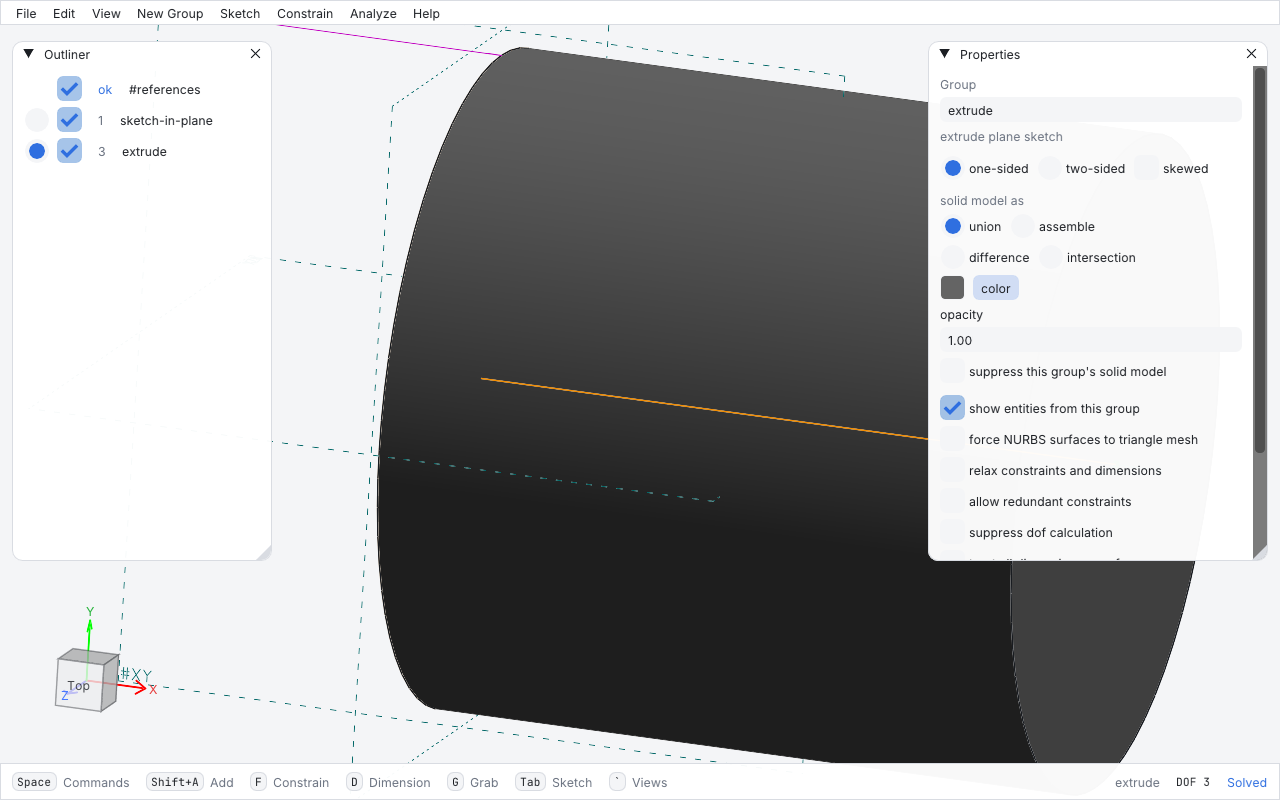
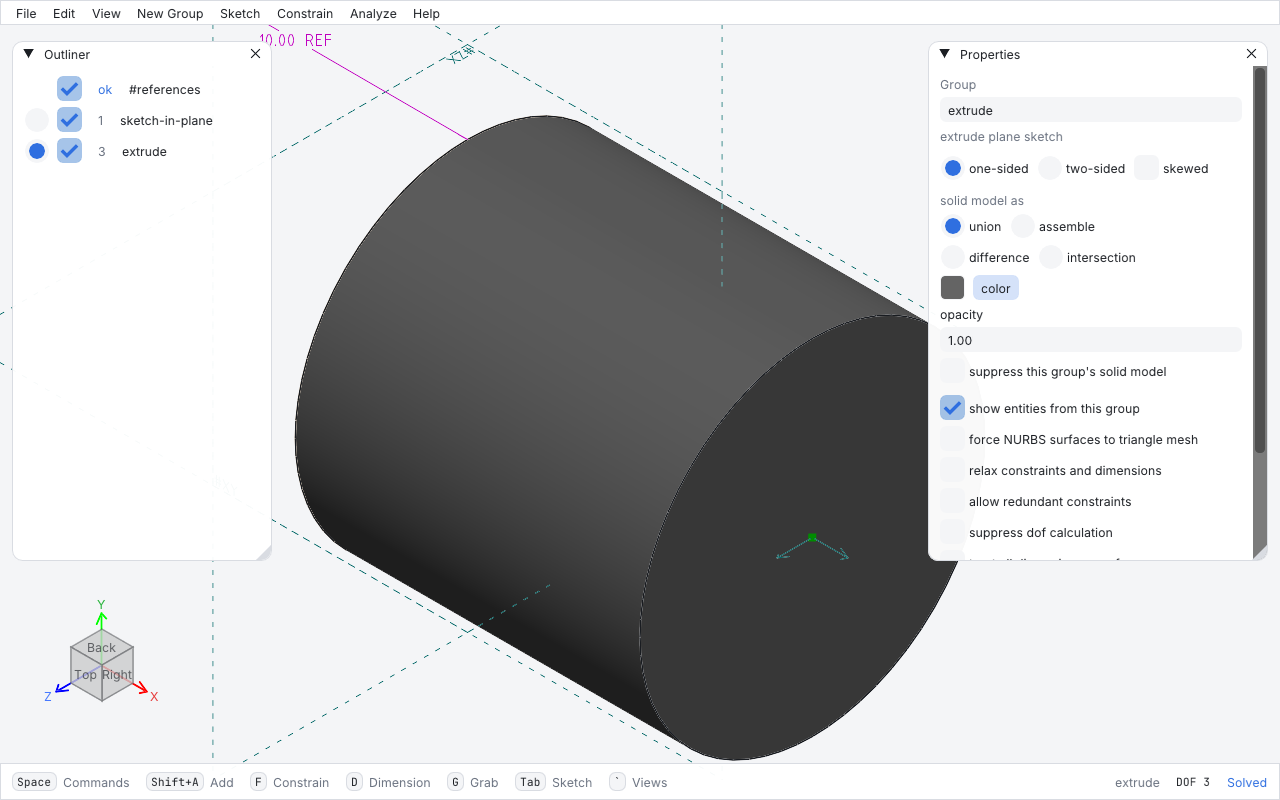
NG: the reference axes start at the view cube's -X -Y -Z corner.
As in Onshape and Fusion 360, the cube's corner is the axes' origin: they
run along its three edges from there and past the far corners, the corner
following the view as it turns. (Looking from +X+Y+Z, that corner sits
right behind the cube's centre.)

diff --git a/src/ui/viewcube.cpp b/src/ui/viewcube.cpp
@@ -13,11 +13,12 @@
 namespace SolveSpace {
 namespace Ui {
 
-static const double CubeSize   = 24;  // half the side of a face seen square on
-static const double AxisLength = 62;  // from the cube's centre, past its corners
-static const float  Box        = 150; // the area cube, axes and labels may cover
+static const double CubeSize   = 22;  // half the side of a face seen square on
+// The axes start at the cube's -X -Y -Z corner and run along its edges, past the far corners.
+static const double AxisLength = 2 * CubeSize + 20;
+static const float  Box        = 180; // the area cube, axes and labels may cover
 
-static Point2d gCenter;
+static Point2d gCenter, gAxesOrigin;
 static bool    gPressed = false, gDragging = false;
 static Point2d gPressAt;
 
@@ -27,6 +28,10 @@ Point2d ViewCubeCenter() {
 
 double ViewCubeSize() {
     return CubeSize;
+}
+
+Point2d ViewCubeAxesOrigin() {
+    return gAxesOrigin;
 }
 
 bool ViewCubeTakesMouseAt(double x, double y, bool canvasPressed) {
@@ -85,14 +90,22 @@ std::function<void()> DrawViewCube() {
                  ImGuiWindowFlags_NoInputs | ImGuiWindowFlags_NoFocusOnAppearing |
                  ImGuiWindowFlags_NoBringToFrontOnFocus);
     ImGui::PopStyleVar();
-    Point2d center = Point2d::From(at.x + Box / 2, at.y + Box / 2);
-    if(!center.Equals(gCenter)) {
-        gCenter = center;
-        // The canvas draws the axes from here (pixels from the view centre, y up).
-        SS.GW.referenceAxesAnchor =
-            Point2d::From(center.x - io.DisplaySize.x / 2, io.DisplaySize.y / 2 - center.y);
-        SS.GW.referenceAxesLength = AxisLength;
-        SS.GW.Invalidate(/*clearPersistent=*/true);
+    gCenter = Point2d::From(at.x + Box / 2, at.y + Box / 2);
+    {
+        // The canvas draws the axes from the cube's -X -Y -Z corner, so that corner is the
+        // origin (pixels from the view centre, y up). It moves as the view turns.
+        Vector  corner = Vector::From(-1, -1, -1);
+        Point2d origin = Point2d::From(gCenter.x + CubeSize * corner.Dot(SS.GW.projRight),
+                                       gCenter.y - CubeSize * corner.Dot(SS.GW.projUp));
+        gAxesOrigin    = origin;
+        Point2d anchor =
+            Point2d::From(origin.x - io.DisplaySize.x / 2, io.DisplaySize.y / 2 - origin.y);
+        if(!SS.GW.referenceAxesAnchor || !SS.GW.referenceAxesAnchor->Equals(anchor, 0.01) ||
+           SS.GW.referenceAxesLength != AxisLength) {
+            SS.GW.referenceAxesAnchor = anchor;
+            SS.GW.referenceAxesLength = AxisLength;
+            SS.GW.Invalidate(/*clearPersistent=*/true);
+        }
     }
     // The cube's area, findable by the UI tests as "viewcube" (the window takes no input).
     ImGui::InvisibleButton("##viewcube", ImVec2(Box, Box));
@@ -157,7 +170,8 @@ std::function<void()> DrawViewCube() {
             dl->AddConvexPolyFilled(q, 4, hi);
         }
     }
-    // Name the axes at their tips, in the canvas's axis colours.
+    // Name the axes at their tips, in the canvas's axis colours (beyond the cube's own area).
+    dl->PushClipRect(ImVec2(0, 0), io.DisplaySize, false);
     const struct { const char *name; Vector dir; ImU32 colour; } axes[] = {
         { "X", { 1, 0, 0 }, IM_COL32(230, 60, 60, 255) },
         { "Y", { 0, 1, 0 }, IM_COL32(40, 180, 60, 255) },
@@ -167,11 +181,13 @@ std::function<void()> DrawViewCube() {
         double sx = a.dir.Dot(right), sy = -a.dir.Dot(up);
         double len = sqrt(sx * sx + sy * sy);
         if(len < 0.25) continue; // pointing at or away from the viewer: no room for a label
-        double  d   = AxisLength + 9;
+        double  d   = AxisLength + 9 / len;
         ImVec2  ts  = ImGui::CalcTextSize(a.name);
-        ImVec2  pos((float)(gCenter.x + sx * d - ts.x / 2), (float)(gCenter.y + sy * d - ts.y / 2));
+        ImVec2  pos((float)(gAxesOrigin.x + sx * d - ts.x / 2),
+                    (float)(gAxesOrigin.y + sy * d - ts.y / 2));
         dl->AddText(pos, a.colour, a.name);
     }
+    dl->PopClipRect();
     ImGui::End();
     return run;
 }

diff --git a/test/ngui/views/test.cpp b/test/ngui/views/test.cpp
@@ -130,7 +130,13 @@ TEST_CASE(an_axis_beside_the_cube_can_be_selected) {
     CHECK_LOAD("line.slvs");
     Driver::Key("Keypad 1"); // Z points up the screen
     Point2d c = Ui::ViewCubeCenter();
-    ClickAt(Point2d::From(c.x, c.y - 52)); // past the cube, on the Z axis
+    double  s = Ui::ViewCubeSize(), len = SS.GW.referenceAxesLength;
+    // The axes start at the cube's -X -Y -Z corner: from the front, its bottom left. Z runs up
+    // the cube's left edge and past its top.
+    Point2d origin = Ui::ViewCubeAxesOrigin();
+    CHECK_TRUE(Near(origin, Point2d::From(c.x - s, c.y + s)));
+    CHECK_TRUE(len > 2 * s + 10);
+    ClickAt(Point2d::From(origin.x, origin.y - len + 6)); // past the cube, on the Z axis
     hEntity zAxis = SK.GetEntity(Request::HREQUEST_REFERENCE_XY.entity(0))->normal;
     CHECK_TRUE(SS.GW.selection.n == 1 && SS.GW.selection[0].entity == zAxis);
     CHECK_TRUE(ViewIs(ViewPreset::FRONT)); // and the view stayed
@@ -140,7 +146,7 @@ TEST_CASE(clicks_beside_the_cube_reach_the_canvas) {
     CHECK_LOAD("line.slvs");
     Driver::Key("Keypad 1");
     Point2d c = Ui::ViewCubeCenter();
-    ClickAt(Point2d::From(c.x + 55, c.y - 55)); // inside its area, off the cube and the axes
+    ClickAt(Point2d::From(c.x + 50, c.y - 50)); // inside its area, off the cube and the axes
     CHECK_TRUE(ViewIs(ViewPreset::FRONT));
     CHECK_TRUE(SS.GW.selection.n == 0);
 }

diff --git a/src/ui/viewcube.h b/src/ui/viewcube.h
@@ -16,6 +16,8 @@ std::function<void()> DrawViewCube();
 // Where it was drawn last frame (window coordinates) and its half-size, for ViewCubeFaces.
 Point2d ViewCubeCenter();
 double  ViewCubeSize();
+// Where the reference axes start: the cube's -X -Y -Z corner, on screen (window coordinates).
+Point2d ViewCubeAxesOrigin();
 // Whether a mouse event at (x, y) is the cube's: over one of its faces, or during a press
 // that started on one. Everything else around it (the axes) belongs to the canvas.
 // A canvas press in progress (a marquee, say) keeps the mouse even over the cube.

diff --git a/AGENTS.md b/AGENTS.md
@@ -115,7 +115,8 @@ Rules:
   icon buttons for every old-toolbar tool; NG never draws the custom toolbar.)
 - **View cube** (added 2026-10-17, as in Fusion 360, Onshape, Shapr3D and FreeCAD, which all
   show axes with their cube): bottom left of the viewport, where SolveSpace has always drawn its
-  X/Y/Z axes, which now come out of the cube (decided with the owner, 2026-10-17: in keeping
+  X/Y/Z axes, which now start at the cube's -X -Y -Z corner and run along its edges, as in
+  Onshape and Fusion (decided with the owner, 2026-10-17: in keeping
   with SolveSpace, and the corner never has to dodge panels). The axes are still the reference
   planes' normals, selectable for constraints (`GraphicsWindow::referenceAxesAnchor`); the cube
   takes the mouse only over its faces. Click a face to look at it, an edge or a corner to look
